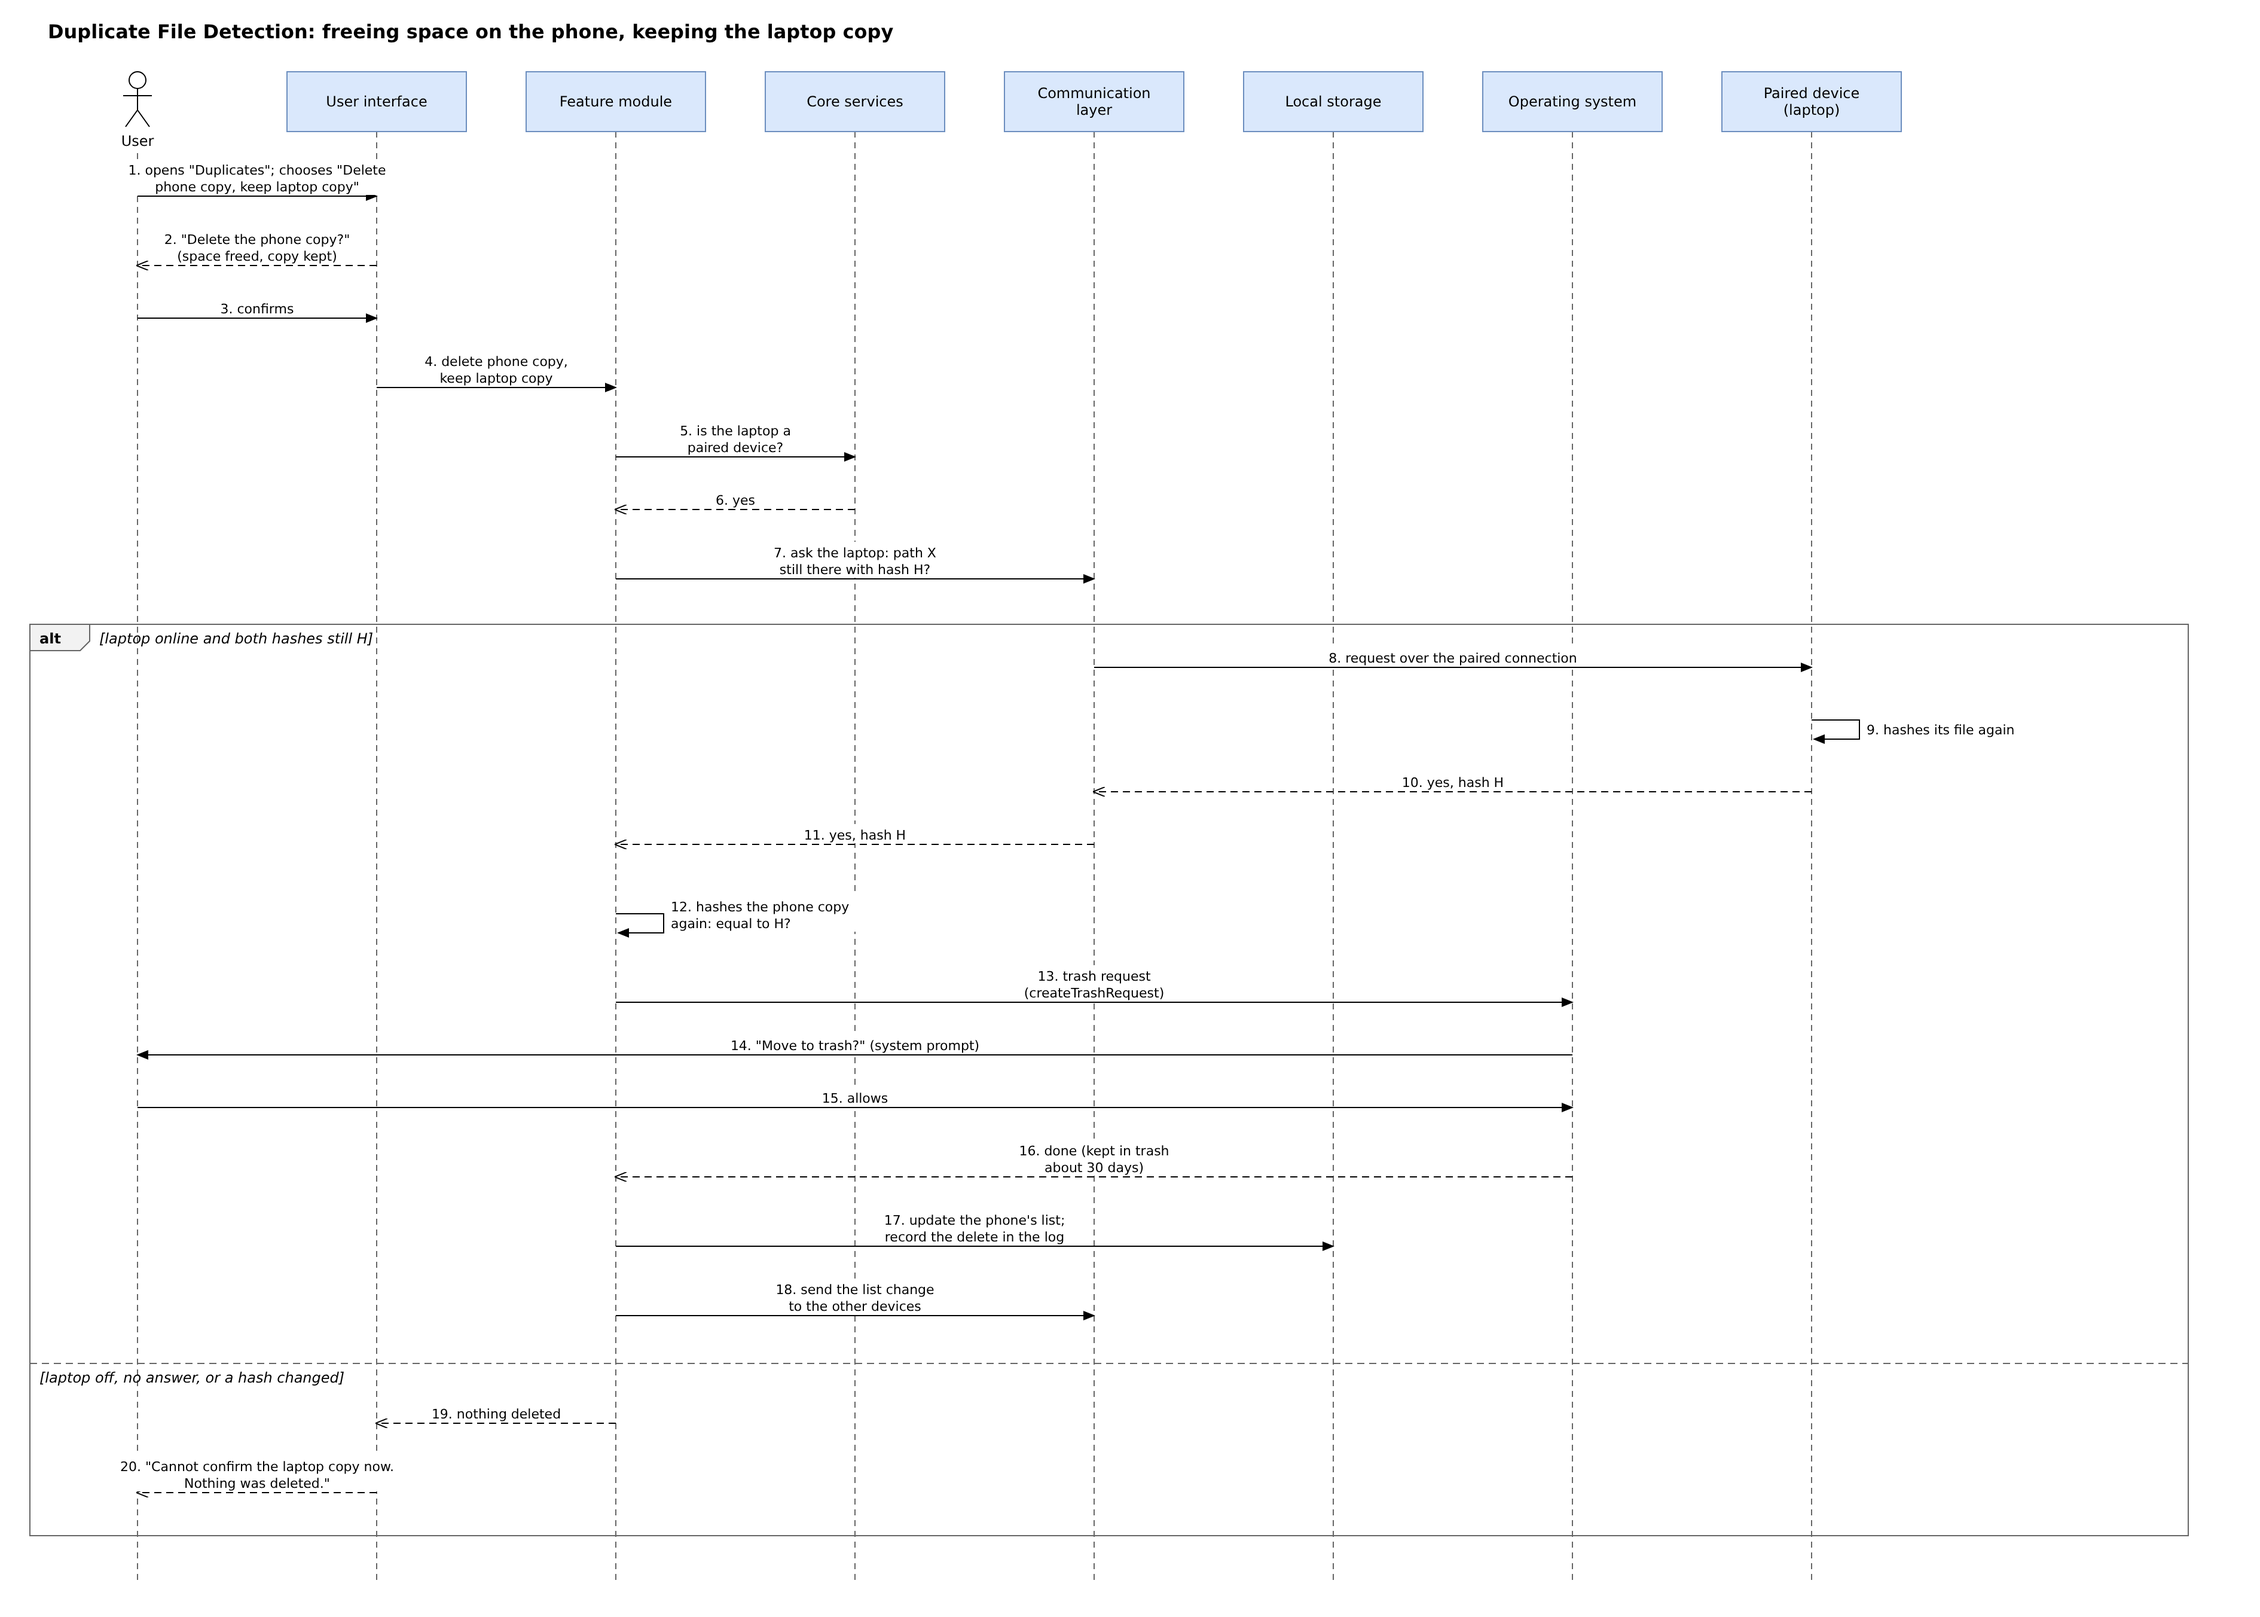
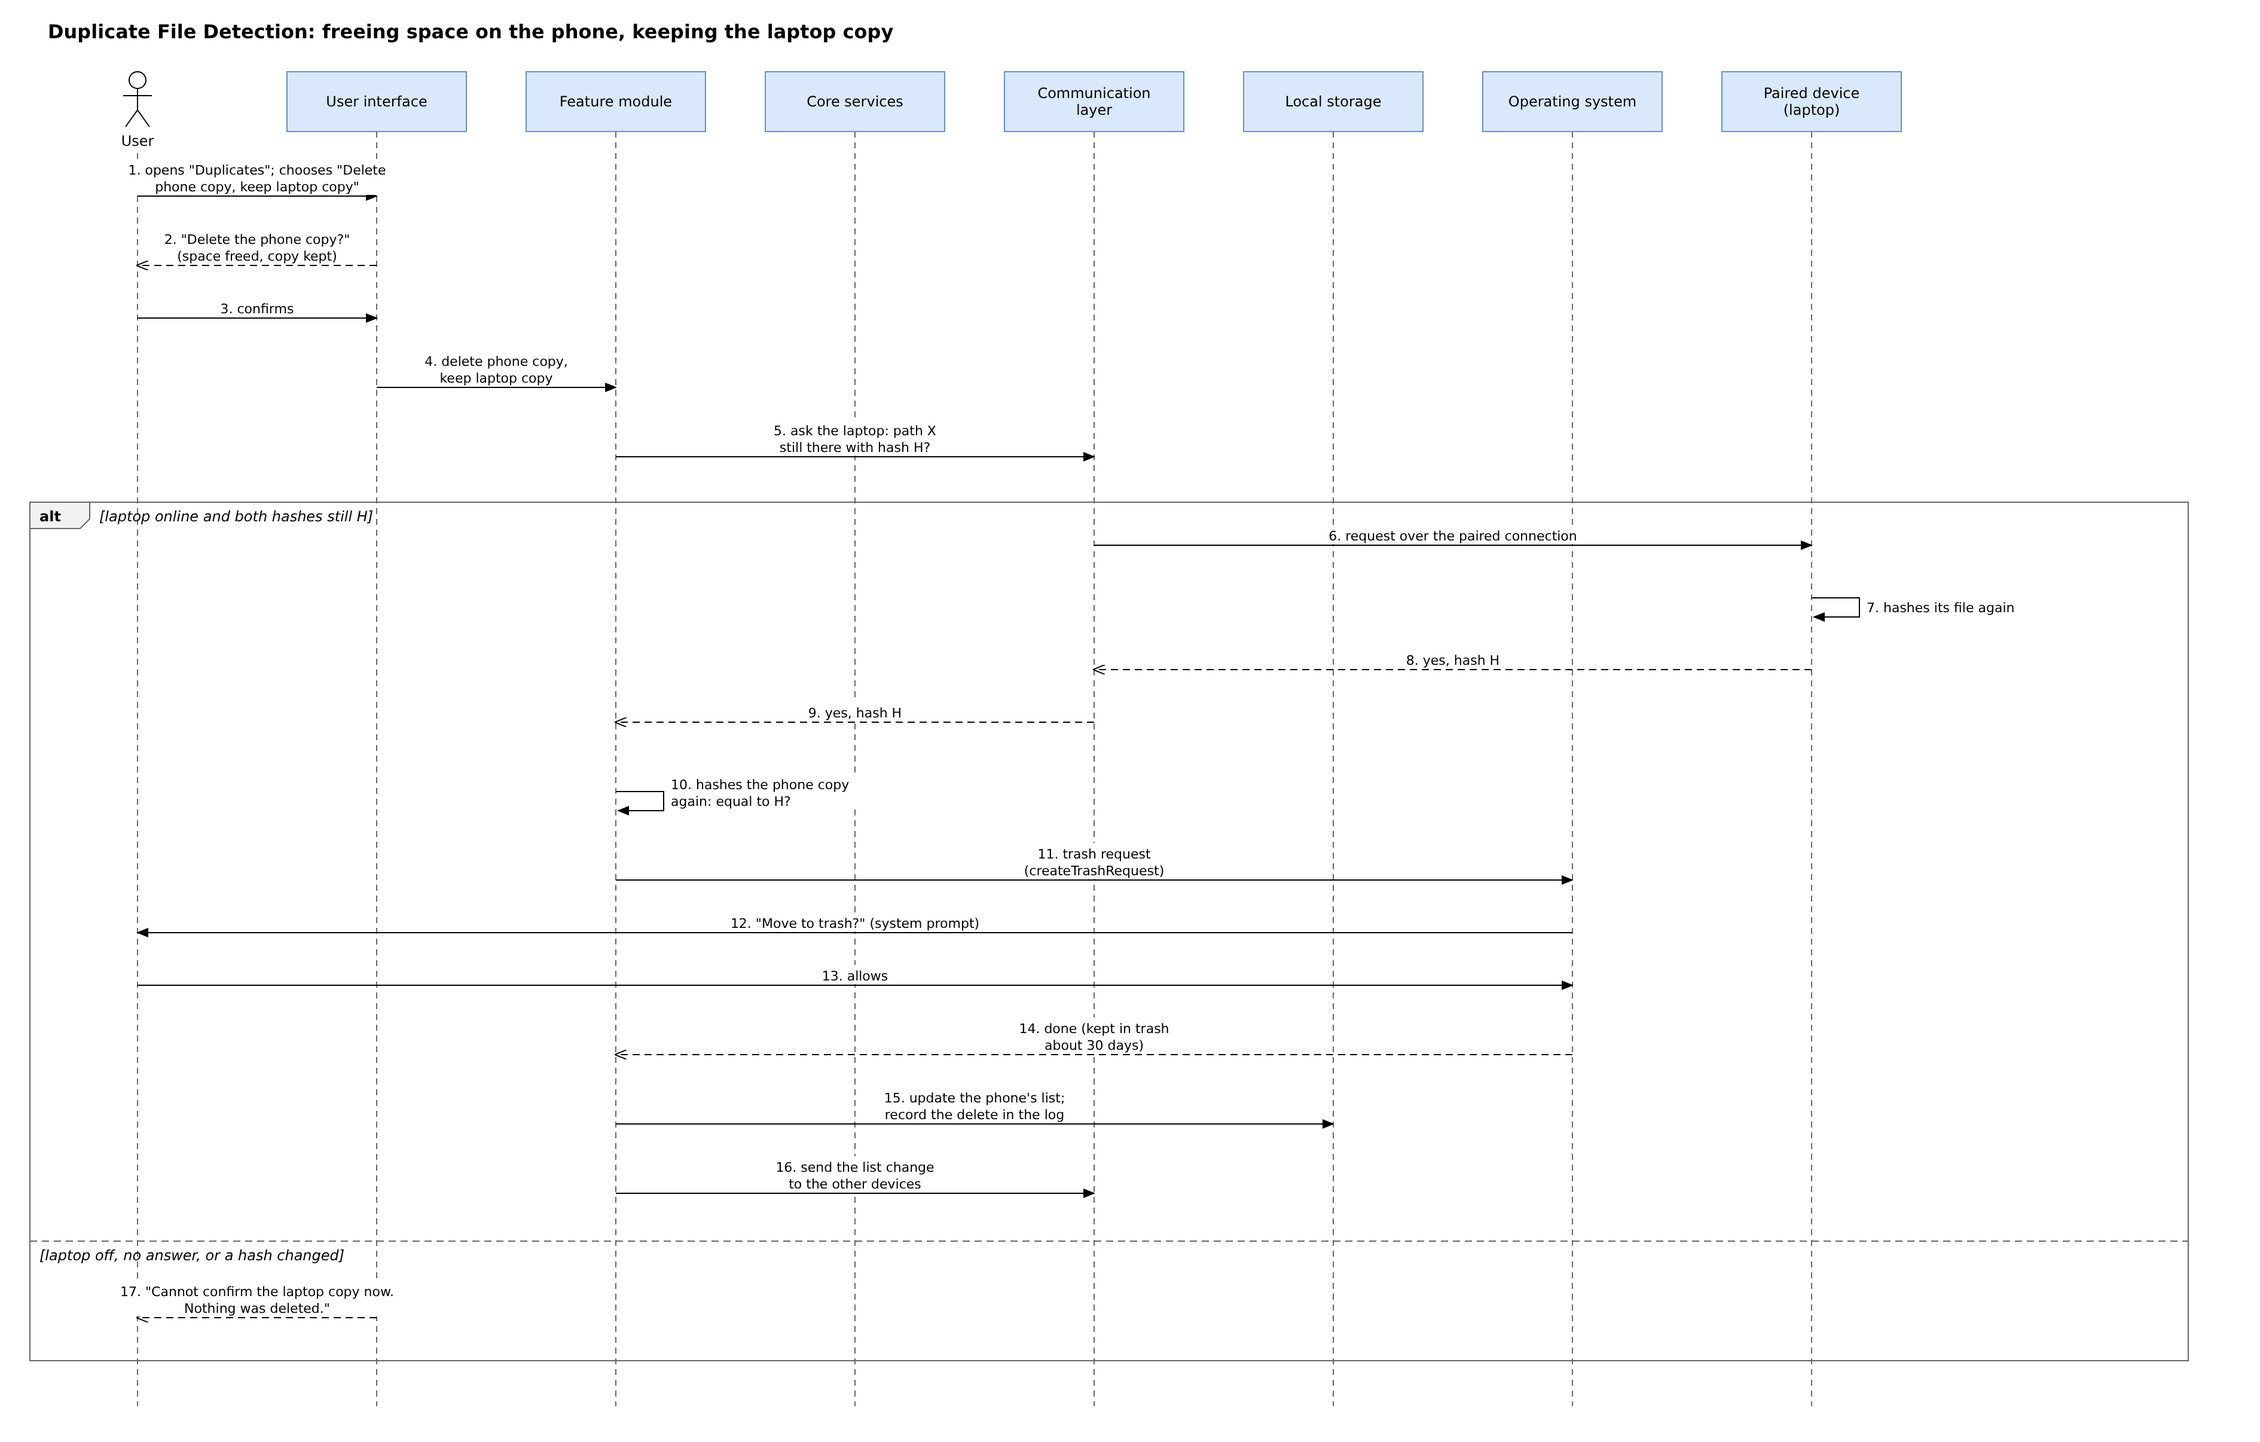
C4: fixes after review (diagram steps kept, deletion requirement split, limitations)
Claude-Session: https://claude.ai/code/session_01BeHf3d1kUqbSvqCHyE6dbJ

diff --git a/report/C4-duplicate-detection.md b/report/C4-duplicate-detection.md
@@ -74,7 +74,7 @@ Every device reads only its own files. Every device also holds a copy of the fil
 
 ![Duplicate File Detection: freeing space on the phone, keeping the laptop copy](../diagrams/C4-duplicate-sequence.png)
 
-The example uses an Android phone. The user chooses to delete the phone copy and keep the laptop copy, and confirms. The phone checks that the laptop is a paired device and asks it, over the paired connection, whether the copy to keep still exists with fingerprint H (steps 5 to 11). Only if the laptop answers yes, and the phone's own copy still has fingerprint H, does the phone send the trash request; Android then shows its own prompt (steps 12 to 16). The phone updates its list, records the deletion in the log and sends the change to the other devices. Otherwise nothing is deleted, and the user sees "Cannot confirm the laptop copy now. Nothing was deleted." (steps 19 and 20). On a computer, step 13 moves the file to the recycle bin or trash, and steps 14 and 15 do not happen. On an iPhone or iPad, the photo library deletes the photo.
+The example uses an Android phone. The user chooses to delete the phone copy and keep the laptop copy, and confirms. The phone asks the laptop, over the paired connection, whether the copy to keep still exists with fingerprint H (steps 5 to 9). The phone sends the trash request only if the laptop answers yes and the phone's own copy still has fingerprint H. Android then shows its own prompt (steps 10 to 14). The phone updates its list, records the deletion in the log and sends the change to the other devices. Otherwise nothing is deleted, and the user sees "Cannot confirm the laptop copy now. Nothing was deleted." (step 17). On a computer, step 11 moves the file to the recycle bin or trash, and steps 12 and 13 do not happen. The laptop's own internal steps are shown inside the single "Paired device" lane. On an iPhone or iPad, the photo library deletes the photo.
 
 ## 8. Requirements
 
@@ -83,16 +83,18 @@ The example uses an Android phone. The user chooses to delete the phone copy and
 - FR-DUP-3 The app must find resized copies of a photo with a perceptual fingerprint, without the AI device.
 - FR-DUP-4 The app must find similar photos on the AI device from previews that the AI device deletes after use.
 - FR-DUP-5 The app must show groups as exact, same photo or similar, and as on one device or on several devices, with the space that can be freed.
-- FR-DUP-6 The app must delete a file only on the device that holds it, and only after the user has confirmed, the file has been fingerprinted again and the kept copy has been found to still exist; for a request from another device, it must also require that the owner device has turned on "Allow my other devices to delete duplicates here" (off by default) or that the user confirms on the owner device; it must never delete the last copy, and it must record every deletion in a log kept for 30 days.
-- FR-DUP-7 The app must move deleted files to the system's trash or recycle bin where the system has one.
-- FR-DUP-8 The app must not show an ignored group again on any device.
+- FR-DUP-6 The app must delete a file only on the device that holds it, and only after the user has confirmed, the file has been fingerprinted again and the kept copy has been found to still exist.
+- FR-DUP-7 For a deletion requested by another device, the app must also require that the owner device has turned on "Allow my other devices to delete duplicates here" (off by default) or that the user confirms on the owner device.
+- FR-DUP-8 The app must never delete the last copy of a file, and it must record every deletion in a log kept for 30 days on the owner device.
+- FR-DUP-9 The app must move deleted files to the system's trash or recycle bin where the system has one.
+- FR-DUP-10 The app must not show an ignored group again on any device.
 - NFR-DUP-1 The app must find exact copies with no other device online, from the last lists, and must show a match that still needs a missing fingerprint as "possible" until the device returns.
 - NFR-DUP-2 The app must not let any file content leave its device, except previews for the AI device, which are not stored.
 - NFR-DUP-3 The app must complete a first AI build of 100,000 photos in about 2 hours of model time on a 4-core, 8-thread laptop-class processor, without the previews and the videos.
 
 ## 9. Limitations
 
-The thresholds of 5 bits and 0.90 are starting values that will be tuned on the team's own photos. The following has not yet been verified: the first build time with ONNX Runtime (the figure comes from a published measurement of the same image model on an Intel i7-8559U processor, at 14.8 previews per second); how frames are taken from videos on each system; the delete prompt on iPhone and iPad; and access to the recycle bin from Flutter on computers. iPhone, iPad and macOS cannot be built or tested by the team, because no member has a Mac. The duplicates screen follows the screen designs.
+The thresholds of 5 bits and 0.90 are starting values that will be tuned on the team's own photos. The following has not yet been verified: the first build time with ONNX Runtime (the figure comes from a published measurement of the same image model on an Intel i7-8559U processor, at 14.8 previews per second); how frames are taken from videos on each system; the delete prompt on iPhone and iPad; whether the `MANAGE_MEDIA` permission (Android 12 and later) skips Android's own prompt; how the app detects photos that are kept only in iCloud; and access to the recycle bin from Flutter on computers. iPhone, iPad and macOS cannot be built or tested by the team, because no member has a Mac.
 
 ## 10. Summary
 

diff --git a/report/C4-duplicate-detection-questions.md b/report/C4-duplicate-detection-questions.md
@@ -13,7 +13,7 @@ Starting points: every device keeps a copy of the other devices' file lists (pat
 ## B. Similar photos and videos
 5. What is "similar": the same photo resized or saved again, a crop or edit, a burst of nearly identical shots? Which method finds which kind, and which part works without the AI device?
 6. How does the AI device see photos stored on other devices, and what does it keep afterwards?
-7. When are two photos "similar enough", and how do we avoid false groups (black-and-white versions, plain backgrounds, screenshots of the same app)?
+7. When are two photos "similar enough", and how are false groups avoided (black-and-white versions, plain backgrounds, screenshots of the same app)?
 8. How are videos compared? What does the user see while the AI device is off?
 
 ## C. Showing the results
